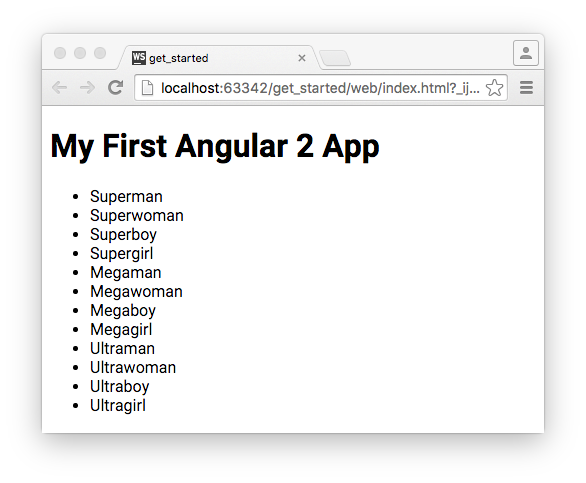
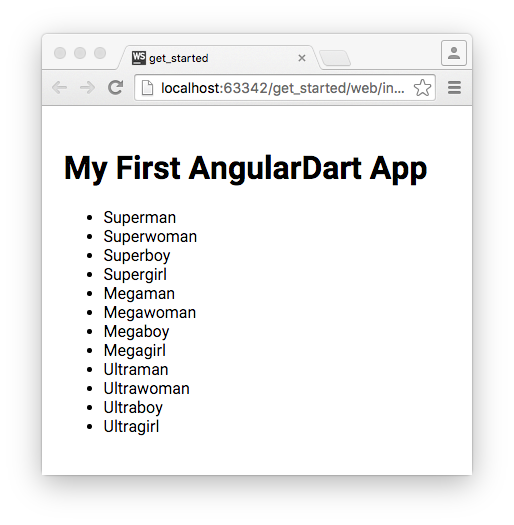
Update Get Started to reflect the new web-angular template. (#322)
Fixes #317

Changed region(s): [[0.0623, 0.0621, 0.9339, 0.9317]]

diff --git a/src/_guides/get-started.md b/src/_guides/get-started.md
@@ -147,15 +147,23 @@ class AppComponent {
 
 <li markdown="1">
   Edit the corresponding template, `lib/app_component.html`,
-  adding the following code to list the heroes:
+  changing the code to the following:
 
 {% prettify html %}{% raw %}
-<ul>
-  <li *ngFor="let hero of heroes">
-    {{ hero }}
-  </li>
-</ul>
+<h1>My First AngularDart App</h1>
+
+[[highlight]]<ul>[[/highlight]]
+  [[highlight]]<li *ngFor="let hero of heroes">[[/highlight]]
+    [[highlight]]{{ hero }}[[/highlight]]
+  [[highlight]]</li>[[/highlight]]
+[[highlight]]</ul>[[/highlight]]
 {% endraw %}{% endprettify %}
+
+  This code uses the Angular's `*ngFor` syntax to loop through
+  the component's `heroes` list.
+  At runtime, Angular creates an `<li>` element for each item in `heroes`,
+  replacing `{% raw %}{{ hero }}{% endraw %}`
+  with the current item's value (a hero's name).
 </li>
 
 <li markdown="1">
@@ -164,6 +172,7 @@ class AppComponent {
   ![Running the customized app from WebStorm](images/run-customized-app.png)
 </li>
 </ol>
+
 
 <aside class="alert alert-info" markdown="1">
 **Feeling lost? Don't worry!**
